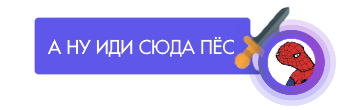
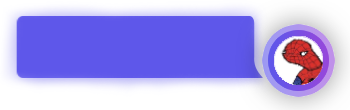
+ buty start

diff --git a/src/app/start/intro/intro.component.ts b/src/app/start/intro/intro.component.ts
@@ -10,12 +10,52 @@ import {OauthApiService} from '../../services/oauth-api-service';
 })
 export class IntroComponent implements OnInit {
 
+  private messagesOne = [
+    'Хааааай',
+    'Когда релиз?',
+    'Как тебе мой мем?',
+    '10010001001',
+    'Что думаешь?',
+    'Где новые мемы?',
+    'А я покакал кста',
+    'Одэмен петух',
+    'Есть тут кто?',
+    'Сиди дома дурак',
+  ];
+
+  private messagesTwo = [
+    'Не важно',
+    'Нормас )0))',
+    'А ты кто такой?',
+    'Кааавооо',
+    'Осуждаю такое',
+    'Я хочу питсы',
+    'У меня лапки',
+    'Зачем ты так',
+    'Аахаххааах',
+    'Надеюсь на лучшее',
+  ];
+
+  public firstMessage = '';
+  public secondMessage = '';
+
   constructor(
     private router: Router
   ) {
+    this.initmessages();
+    this.initTimer();
   }
 
   ngOnInit() {
+  }
+
+  initTimer() {
+    setInterval(() => this.initmessages(), 3000);
+  }
+
+  initmessages() {
+    this.firstMessage = this.messagesOne[Math.floor(Math.random() * this.messagesOne.length)];
+    this.secondMessage = this.messagesTwo[Math.floor(Math.random() * this.messagesTwo.length)];
   }
 
   toIvite() {

diff --git a/src/app/start/intro/intro.component.html b/src/app/start/intro/intro.component.html
@@ -29,19 +29,21 @@
             <img alt="top1" class="img-fluid" src="assets/images/top-mobile.png">
           </div>
           <div class="profile-msg intro-message">
+            <div class="profile-msg-text">{{firstMessage}}</div>
             <img alt="top2" class="img-fluid" src="assets/images/top2.png">
           </div>
           <div class="awesome intro-message">
+            <div class="awesome-text">{{secondMessage}}</div>
             <img alt="top3" class="img-fluid" src="assets/images/top3.png">
           </div>
           <div class="profile-1">
-            <img alt="top4" class="img-fluid" src="assets/images/top4.png">
+            <img alt="top4" class="img-fluid animated zoomIn" src="assets/images/top4.png">
           </div>
           <div class="profile-3">
-            <img alt="top5" class="img-fluid" src="assets/images/top5.png">
+            <img alt="top5" class="img-fluid animated zoomIn" src="assets/images/top5.png">
           </div>
           <div class="profile-2">
-            <img alt="top1" class="img-fluid" src="assets/images/top1.png">
+            <img alt="top1" class="img-fluid animated zoomIn" src="assets/images/top1.png">
           </div>
         </div>
       </div>

diff --git a/src/assets/scss/base/_style.scss b/src/assets/scss/base/_style.scss
@@ -571,10 +571,7 @@ section {
   position: absolute;
   top: 41%;
   left: -25px;
-
-  img {
-    animation: movebounce 2.1s linear infinite;
-  }
+  animation: movebounce 2.1s linear infinite;
 }
 
 @keyframes movebounce {
@@ -605,10 +602,7 @@ section {
   position: absolute;
   top: 56%;
   right: 25px;
-
-  img {
-    animation: moveleftbounce 2.1s linear infinite;
-  }
+  animation: moveleftbounce 2.1s linear infinite;
 }
 
 .profile-1 {

diff --git a/src/app/start/intro/intro.component.scss b/src/app/start/intro/intro.component.scss
@@ -4,3 +4,23 @@
   position: absolute;
   opacity: 0.25;
 }
+
+.profile-msg-text {
+  position: absolute;
+  font-size: 16px;
+  font-family: FuturaRound, serif;
+  z-index: 1;
+  top: 20px;
+  left: 69px;
+  color: black;
+}
+
+.awesome-text {
+  position: absolute;
+  font-size: 16px;
+  font-family: FuturaRound, serif;
+  z-index: 1;
+  top: 20px;
+  left: 20px;
+  color: white;
+}

diff --git a/src/app/shared/mem-logo/mem-logo.component.html b/src/app/shared/mem-logo/mem-logo.component.html
@@ -1,4 +1,4 @@
-<div>
+<div class="animated bounceInLeft">
   <img class="img-fluid mainLogo" src="assets/images/mem-logo.png">
   <p class="helloRandom">{{ helloRandom }}</p>
 </div>

diff --git a/src/app/shared/footer/footer.component.scss b/src/app/shared/footer/footer.component.scss
@@ -1,5 +1,5 @@
 .btn-donater {
-  font-size: 20px;
+  font-size: 18px;
 
   @media(max-width: 767px) {
     font-size: 14px;
